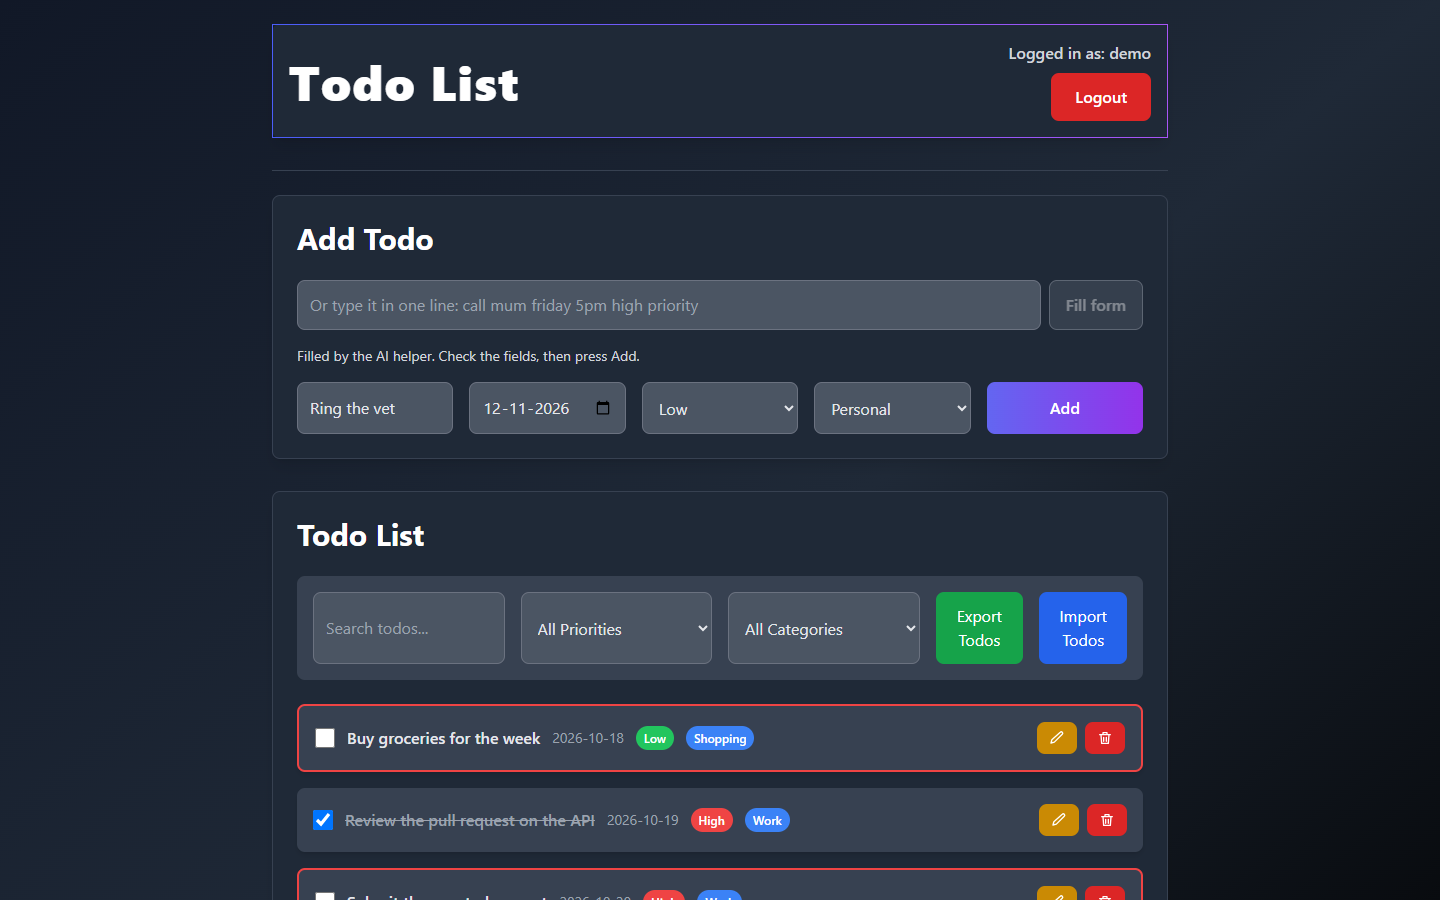
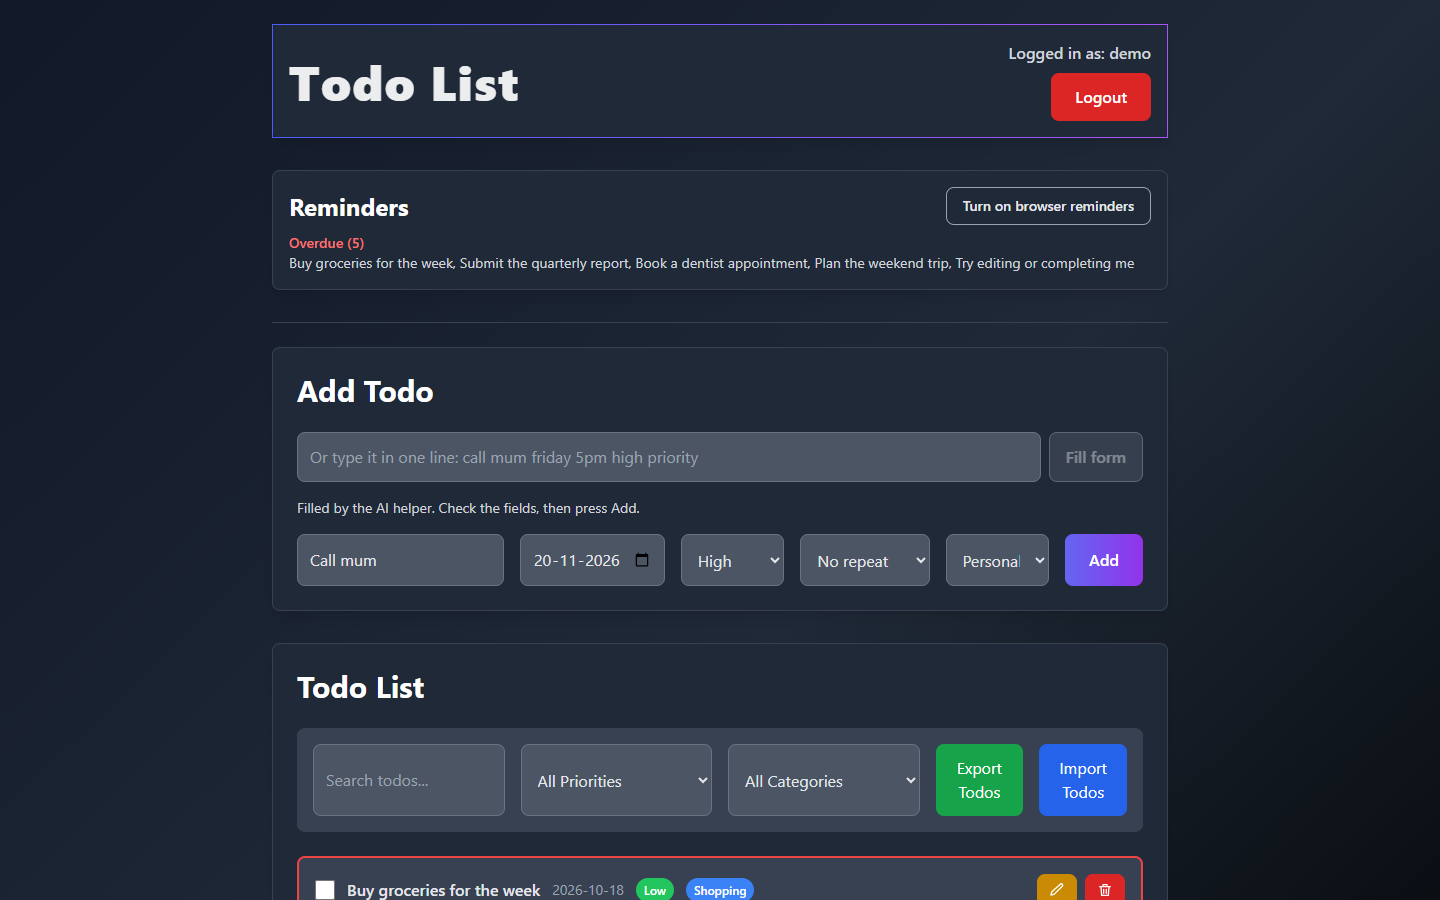
docs: README shows reminders and repeating tasks with live screenshots, test counts and limits (#12)

Changed region(s): [[0.1875, 0.2178, 0.8125, 1.0], [0.6562, 0.2178, 0.7812, 0.2489]]

diff --git a/README.md b/README.md
@@ -41,7 +41,7 @@
   </a>
 </p>
 
-<p align="center"><sub>Last updated: 2026-11-09 &middot; Live on free tiers (Vercel, Render, Neon), Fill form (AI helper with a rules fallback) live</sub></p>
+<p align="center"><sub>Last updated: 2026-11-13 &middot; Live on free tiers (Vercel, Render, Neon), Fill form (AI helper with a rules fallback), repeating tasks and reminders live</sub></p>
 
 ---
 
@@ -90,8 +90,11 @@ Things to try in the first two minutes:
     <td width="50%"><img src="docs/images/filtered.png" alt="The list filtered to high priority tasks matching the search text"><p align="center"><sub>Search and priority filter (<a href="#features">features</a>)</sub></p></td>
   </tr>
   <tr>
-    <td width="50%"><img src="docs/images/edit.png" alt="A task open for editing inline, with description, date, priority and category fields"><p align="center"><sub>Inline editing (<a href="#how-it-works">how it works</a>)</sub></p></td>
+    <td width="50%"><img src="docs/images/edit.png" alt="A task open for editing inline, with description, date, priority, repeat and category fields"><p align="center"><sub>Inline editing, with the Repeat choice (<a href="#how-it-works">how it works</a>)</sub></p></td>
     <td width="50%"><img src="docs/images/list.png" alt="The full list with one task ticked off"><p align="center"><sub>A completed task struck through (<a href="#engineering-quality">tests</a>)</sub></p></td>
+  </tr>
+  <tr>
+    <td colspan="2"><img src="docs/images/repeat-reminders.png" alt="The Reminders panel listing overdue tasks above the add form, where a due date and a Weekly repeat are chosen"><p align="center"><sub>Reminders on top; the add form with a due date and a weekly repeat chosen (<a href="#features">features</a>)</sub></p></td>
   </tr>
   <tr>
     <td colspan="2"><img src="docs/images/fill-form.png" alt="The add form after typing one sentence and pressing Fill form: description, due date, priority and category are filled in, with a note that the AI helper filled them and that nothing is saved until Add"><p align="center"><sub>Fill form: one sentence fills the fields, nothing is saved until Add (<a href="#features">features</a>, <a href="server/eval/README.md">evaluation</a>)</sub></p></td>
@@ -222,7 +225,7 @@ Every route except `/health`, `/register` and `/login` needs the token from `/lo
 
 | Area | What is in place |
 |---|---|
-| Tests | 23 server tests (10 unit tests for validation, 13 API tests against Postgres: auth, validation, per-user isolation, import rollback, rate limit, health) and 11 client tests (login errors, token storage, ticking a task, expired token, the category list and a new category). All passing on 2026-10-22. |
+| Tests | 48 server tests (validation, the rule parser, model-answer checks, quota, the Gemini client, evaluation scoring, date arithmetic for repeating tasks, and API tests against Postgres: auth, validation, per-user isolation, import rollback, repeat-once on ticking, reminder buckets, rate limit, health) and 22 client tests (login errors, token storage, ticking a task, expired token, categories, Fill form, the Reminders panel, the repeat choice and badge). All passing on 2026-11-13. |
 | CI | GitHub Actions on every push and pull request: ESLint, Prettier, migrations, tests and `npm audit` for the API; ESLint, Prettier, tests, build and `npm audit` for the client. |
 | Monitoring | An uptime workflow requests `/health` and the client every 30 minutes; a failure emails the repository owner. |
 | Security | Passwords hashed with bcrypt, tokens expire, helmet headers, CORS limited to the client origin, login and register rate limited, every query parameterised and scoped to the user, secrets only from the environment. `npm audit` for production dependencies: 0 vulnerabilities on 2026-10-17 (server and client). |
